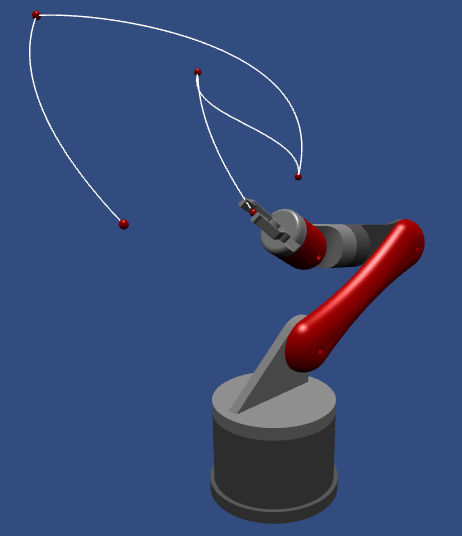
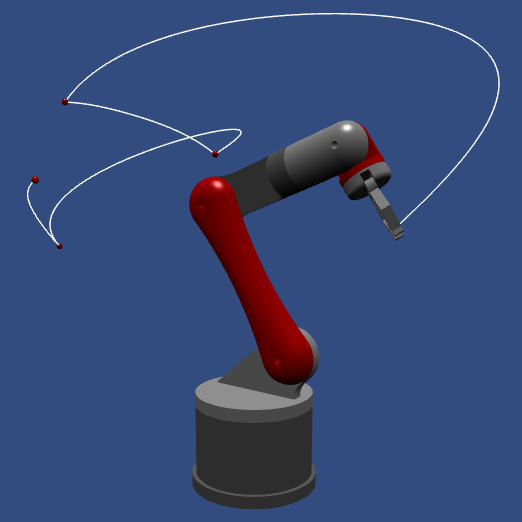
texto v4

diff --git a/LaTeX/Textual/2_Fundamentacao_teorica.tex b/LaTeX/Textual/2_Fundamentacao_teorica.tex
@@ -1,6 +1,6 @@
 \chapter{Fundamentação teórica}
 O desenvolvimento de um sistema para modelagem e visualização de um manipulador robótico exige uma base matemática que permita descrever formalmente sua estrutura geométrica e seu comportamento cinemático, estabelecendo de maneira consistente a relação entre o espaço das juntas e o espaço cartesiano. Este capítulo apresenta os fundamentos teóricos que sustentam o modelo adotado e dão suporte às decisões de implementação descritas posteriormente.
-\section{Manipuladores Robóticos}
+\section{Manipuladores Robóticos Industriais}
 % Definição e classificação (serial/paralelo), graus de liberdade, elos e juntas, espaço de trabalho,
 % aplicações típicas, métricas (repetibilidade/precisão) e exemplos.
 
@@ -8,10 +8,26 @@ Um manipulador robótico é um sistema mecânico articulado projetado para posic
 
 Segundo a norma ISO 8372:2012, um robô industrial é definido como uma máquina manipuladora automaticamente controlada, reprogramável e multifuncional, com três ou mais eixos programáveis, podendo ter base fixa ou móvel, destinada a aplicações de automação industrial \cite{romano2024}. Essa definição enfatiza três características fundamentais: reprogramabilidade, controle automático e multiplicidade de graus de liberdade.
 
+De forma complementar, um robô é composto pelo conjunto formado por um manipulador, responsável pela movimentação e interação com o ambiente; a unidade de controle, que processa os comandos e define o comportamento do sistema; e a unidade de potência, que fornece a energia necessária para a atuação dos seus elementos. Essa composição é ilustrada na figura \ref{fig:esquema_robo}.
+
+\begin{figure}[H]
+    \centering
+    \includegraphics[width=0.9 \textwidth]{Imagens/esquema_robo_texto.png}
+    \caption{Composição de Robô industrial}
+    \label{fig:esquema_robo_texto}
+\end{figure}
+
+
 Do ponto de vista estrutural, um manipulador é composto por uma cadeia cinemática aberta formada por elos rígidos interconectados por juntas. O primeiro elo é denominado base, geralmente fixo ao solo ou à estrutura de suporte, enquanto o último elo sustenta o efetuador final, responsável pela interação com o ambiente. 
 
 As juntas podem ser classificadas principalmente como junta de rotação (revolução) ou junta prismática  (translação). Cada junta introduz uma variável independente de posição. O número total dessas variáveis define os graus de liberdade do manipulador. Em uma cadeia cinemática aberta típica, o número de juntas coincide com o número de graus de liberdade do sistema \cite{romano2024}.
 
+\begin{figure}[H]
+    \centering
+    \includegraphics[width=0.9 \textwidth]{Imagens/esquema_robo.png}
+    \caption{Robô industrial: manipulador, unidade de potência e unidade de controle.\cite{romano2024}}
+    \label{fig:esquema_robo}
+\end{figure}
 
 Matematicamente, o estado geométrico de um manipulador pode ser descrito por dois espaços distintos:
 
@@ -35,7 +51,8 @@ No presente trabalho, considera-se um manipulador serial de seis graus de liberd
 
 \section{Representações por Transformações Homogêneas}
 
-Na modelagem cinemática de manipuladores robóticos, é necessário descrever de forma consistente a posição e a orientação de cada elo em relação a um sistema de coordenadas de referência. Essa descrição é realizada por meio das transformações homogêneas, que permitem representar simultaneamente rotação e translação em uma única estrutura matricial \cite{romano2024_parte2}.
+Na modelagem cinemática de manipuladores robóticos, é necessário descrever de forma consistente a posição e a orientação de cada elo em relação a um sistema de coordenadas de referência (SCR). Essa descrição é realizada por meio das transformações homogêneas, que permitem representar simultaneamente rotação e translação em uma única estrutura matricial \cite{romano2024_parte2}.
+\abbrev{SCR}{Sistema de coordenadas de referência}
 
 Considere dois sistemas de coordenadas, $\{A\}$ e $\{B\}$, rigidamente associados a diferentes elos do manipulador. A postura do sistema $\{B\}$ em relação ao sistema $\{A\}$ pode ser descrita por uma matriz de transformação homogênea da forma:
 
@@ -48,6 +65,13 @@ Considere dois sistemas de coordenadas, $\{A\}$ e $\{B\}$, rigidamente associado
 \end{equation}
 
 onde $^A\mathbf{R}_B$ é a matriz de rotação que define a orientação relativa entre os sistemas e $\mathbf{p}_{A}^{B}$ é o vetor posição da origem de $\{B\}$ expresso em $\{A\}$.
+
+\begin{figure}[H]
+    \centering
+    \includegraphics[width=0.7 \textwidth]{Imagens/sistema_coordenada.png}
+    \caption{SCR $\{B\}$ descrito no SCR $\{A\}$}
+    \label{fig:sistema_coordenada}
+\end{figure}
 
 A principal vantagem dessa representação é permitir a composição sucessiva de transformações por meio de multiplicação matricial. Assim, considerando três sistemas de coordenadas $\{A\}$, $\{B\}$ e $\{C\}$, tem-se:
 
@@ -74,6 +98,13 @@ Para cada elo $i$ de um manipulador serial, são definidos quatro parâmetros:
     \item $a_i$: comprimento do elo, medido ao longo do eixo $x_i$;
     \item $\alpha_i$: ângulo de torção entre os eixos $z_{i-1}$ e $z_i$, medido em torno de $x_i$.
 \end{itemize}
+
+\begin{figure}[H]
+    \centering
+    \includegraphics[width=0.8 \textwidth]{Imagens/esquema_dh.png}
+    \caption{Notação DH para cadeia cinemática.\cite{parametroDH}}
+    \label{fig:esquema_dh}
+\end{figure}
 
 Esses parâmetros permitem descrever completamente a transformação entre os sistemas de coordenadas $\{i-1\}$ e $\{i\}$ por meio da matriz homogênea:
 
@@ -177,16 +208,25 @@ Dessa forma, o planejamento de trajetória por interpolação polinomial permite
 \subsection {Robôs humanóides com Inteligência Artificial (VLA)}
 
 
-\textcolor{red}{A tendência recente de emprego de robôs humanóides na execução de tarefas industriais, resultou no desenvolvimento de uma nova geração de modelos de inteligência artificial que integram três capacidades fundamentais em um único sistema para dar "inteligência geral" a estes robôs. Estes modelos são denominados VLA (\textit{Vision-Language-Action}) ou Visão-Linguagem-Ação.}
+A tendência recente de emprego de robôs humanóides na execução de tarefas industriais, resultou no desenvolvimento de uma nova geração de modelos de inteligência artificial que integram três capacidades fundamentais em um único sistema para dar "inteligência geral" a estes robôs. Estes modelos são denominados VLA (\textit{Vision-Language-Action}) ou Visão-Linguagem-Ação.
 \abbrev{VLA}{Vision-Language-Action}
 
-\textcolor{red}{\textbf{Visão:} O robô utiliza câmeras, LiDAR (\textit{Light Detection and Ranging}) e algoritmos de visão computacional para compreender o ambiente ao seu redor, identificando objetos e obstáculos.}
-\abbrev{LiDAR}{Vision-Language-Action}
+\textbf{Visão:} O robô utiliza câmeras, LiDAR (\textit{Light Detection and Ranging}) e algoritmos de visão computacional para compreender o ambiente ao seu redor, identificando objetos e obstáculos.
+\abbrev{LiDAR}{Light Detection and Ranging}
 
-\textcolor{red}{\textbf{Linguagem:} O sistema processa instruções em linguagem natural (texto ou fala), permitindo que humanos deem comandos complexos como "pegue a caneca vermelha e coloque-a na mesa".}
+\textbf{Linguagem:} O sistema processa instruções em linguagem natural (texto ou fala), permitindo que humanos deem comandos complexos como "pegue a caneca vermelha e coloque-a na mesa".
 
-\textcolor{red}{\textbf{Ação:} O modelo traduz a compreensão visual e as instruções verbais diretamente em comandos motores, controlando os movimentos físicos do robô de forma coordenada.}
+\textbf{Ação:} O modelo traduz a compreensão visual e as instruções verbais diretamente em comandos motores, controlando os movimentos físicos do robô de forma coordenada.
 
-\textcolor{red}{Ao contrário da robótica tradicional, os modelos VLA permitem que os robôs aprendam a realizar tarefas e se adaptem a novas situações de forma mais flexível.}
+Ao contrário da robótica tradicional, os modelos VLA permitem que os robôs aprendam a realizar tarefas e se adaptem a novas situações de forma mais flexível.
 
-\textcolor{red}{Neste projeto de graduação serão abordados somente os modelos de planejamento de trajetórias baseados em códigos de programação, sem considerar os modelos VLA.}
+Neste projeto de graduação serão abordados somente os modelos de planejamento de trajetórias baseados em códigos de programação, sem considerar os modelos VLA.
+
+\begin{figure}[H]
+    \centering
+    \includegraphics[width=0.7 \textwidth]{Imagens/Boston Dymanics.png}
+    \caption{Robô humanoide da Boston Dynamics em operação \cite{bostondynamics_atlas2025} }
+    \label{fig:Boston Dymanics}
+\end{figure}
+
+%https://www.youtube.com/watch?v=gS4rOqNDTBk

diff --git a/LaTeX/Textual/4_Resultados.tex b/LaTeX/Textual/4_Resultados.tex
@@ -28,6 +28,13 @@ A Figura \ref{fig:teste_cd} apresenta um exemplo de configuração articular apl
 \label{fig:teste_cd}
 \end{figure}
 
+A entrada de dados consiste nas variáveis de junta $\theta_1=137,60^\circ$;
+$\theta_2=164,80^\circ$;
+$\theta_3=-218.60^\circ$;
+$\theta_4=219.20^\circ$;
+$\theta_5=-70.00^\circ$;
+$\theta_6=185,60^\circ$.
+
 A partir dessa configuração, o simulador calcula automaticamente a matriz de transformação homogênea do efetuador final, exibida na interface. O resultado obtido é consistente com a modelagem baseada na Convenção de Denavit–Hartenberg apresentada no Capítulo 2.
 
 \section{Testes de Cinemática Inversa}
@@ -48,9 +55,9 @@ A Figura \ref{fig:teste_ci} apresenta um exemplo de pose definida pelo usuário 
 No exemplo apresentado, o usuário definiu a posição do efetuador final como:
 
 \begin{align}
-x &= 280.00 \\
-y &= -460.00 \\
-z &= 493.33
+x &= 280.00\,\mathrm{mm} \\
+y &= -460.00\,\mathrm{mm} \\
+z &= 493.33\,\mathrm{mm}
 \end{align}
 
 Após a execução da cinemática inversa, o simulador calcula as variáveis articulares correspondentes e atualiza a matriz de transformação homogênea global do efetuador final, exibida na interface na forma:
@@ -86,7 +93,7 @@ Em seguida, pode-se validar a orientação do efetuador final a partir dos ângu
 \text{yaw} &= 33.60^\circ
 \end{align}
 
-No simulador, esses ângulos são utilizados para compor a matriz de rotação do efetuador segundo a convenção ZYX, dada por:
+No simulador, esses ângulos são utilizados para compor a matriz de rotação do efetuador segundo a convenção ZYX no sistema de referência do elo O (inercial), dada por:
 
 \begin{equation}
 R = R_z(\text{yaw})\,R_y(\text{pitch})\,R_x(\text{roll})
@@ -132,7 +139,27 @@ Esse resultado coincide com a submatriz de rotação correspondente às três pr
 
 O simulador permite a execução de trajetórias definidas a partir de uma sequência de configurações articulares intermediárias. Para avaliar essa funcionalidade, foram programados diferentes movimentos utilizando a interpolação polinomial cúbica descrita anteriormente.
 
-A Figura \ref{fig:trajetoria_execucao} apresenta um exemplo de execução de trajetória no simulador.
+A Figura \ref{fig:trajetoria_execucao} apresenta um exemplo de execução de trajetória no simulador. A tabela \ref{tab:trajetoria} mostra os valores das variáveis para cada uma das configurações usadas no exemplo, assim como o tempo definido para cada trecho do percurso.
+
+\begin{table}[H]
+\centering
+\caption{Posicionamentos configurados ao longo da trajetória}
+\label{tab:trajetoria}
+\begin{tabular}{c c c c c c c c}
+\hline
+\textbf{Configuração} & $\boldsymbol{\theta_1}(^\circ)$ & $\boldsymbol{\theta_2}(^\circ)$ & $\boldsymbol{\theta_3}(^\circ)$ & $\boldsymbol{\theta_4}(^\circ)$ & $\boldsymbol{\theta_5}(^\circ)$ & $\boldsymbol{\theta_6}(^\circ)$ &  $\boldsymbol{\Delta t}$ (s)  \\ 
+\hline
+1 & 180.0 & 90.0 & 0.0 & 180.0 & 0.0 & 0.0 & - \\
+2 & 130.0 & 105.0 & 10.0 & 122.4 & 40.8 & 57.6 & 2 \\
+3 & 264.0 & 33.6 & 49.0 & 201.6 & 90.0 & 199.2 & 3 \\
+4 & 307.2 & 12.0 & -7.2 & 276 & 52.8 & 235.2 & 1 \\
+5 & 124.8 & 122.4 & -191.8 & 360 & -75.6 & 151.2 & 3 \\
+
+
+\hline
+\end{tabular}
+\end{table}
+
 
 \begin{figure}[H]
 \centering

diff --git a/LaTeX/Textual/3_Metodologia.tex b/LaTeX/Textual/3_Metodologia.tex
@@ -37,18 +37,28 @@ Essa divisão favorece a organização do código, facilita a manutenção e per
 O funcionamento do sistema segue o seguinte fluxo geral:
 
 \begin{enumerate}
-    \item O usuário interage com a interface por meio de controles deslizantes ou comandos de execução de trajetória;
-    \item As variáveis articulares são atualizadas conforme a entrada fornecida;
+    \item O usuário interage com a interface por meio de controles deslizantes ou comandos de execução de trajetória. Essa interação pode ser por meio da cinemática direta ou inversa;
+    \item Caso o comando do usuário seja por meio da cinemática inversa, os valores das juntas são calculados;
+    \item As variáveis articulares são atualizadas;
     \item A nova configuração do manipulador é aplicada à estrutura hierárquica da cena 3D;
     \item O posicionamento do efetuador final é recalculado e, quando aplicável, utilizado na atualização dos gráficos;
     \item O motor gráfico renderiza a cena atualizada em tempo real.
 \end{enumerate}
 
+\begin{figure}[H]
+    \centering
+    \includegraphics[width=0.85\textwidth]{Imagens/flowchart.png}
+    \caption{Fluxograma do funcionamento do programa }
+    \label{fig:flowchart}
+\end{figure}
+
+%https://miro.com/app/board/uXjVHfj6woE=/
+
 Esse processo ocorre dentro do laço de renderização do motor gráfico, garantindo atualização contínua da cena e dos elementos gráficos.
 
 \subsection{Sistema de Coordenadas e Estrutura Hierárquica}
 
-A cena tridimensional foi configurada utilizando um sistema de coordenadas de mão direita, com o eixo $z$ orientado verticalmente, em concordância com a modelagem cinemática adotada.
+A cena tridimensional foi configurada utilizando um sistema de coordenadas de x, y e z, com o eixo $z$ orientado verticalmente, em concordância com a modelagem cinemática adotada.
 
 A estrutura do manipulador foi implementada por meio de uma hierarquia de nós (\textit{TransformNodes}), em que cada junta é modelada como um elemento pai do elo subsequente. Dessa forma, as transformações aplicadas a uma junta propagam-se automaticamente para os elos descendentes, reproduzindo computacionalmente a cadeia cinemática aberta descrita na fundamentação teórica.
 
@@ -116,7 +126,7 @@ Foram modelados os principais elementos estruturais do manipulador, incluindo ba
 
 \begin{figure}[H]
     \centering
-    \includegraphics[width=0.85\textwidth]{Imagens/OnShape_Assembly.png}
+    \includegraphics[width=1\textwidth]{Imagens/OnShape_Assembly.png}
     \caption{Modelo CAD do manipulador serial 6R desenvolvido no Onshape.}
     \label{fig:OnShape_Assembly}
 \end{figure}

diff --git a/LaTeX/Textual/5_Conclusao.tex b/LaTeX/Textual/5_Conclusao.tex
@@ -24,15 +24,14 @@ Dessa forma, a ferramenta pode ser utilizada como recurso complementar na discip
 
 \section{Simulação de gêmeos digitais}
 
-\textcolor{red}{O conceito de gêmeo digital refere-se à criação de um modelo virtual que representa um sistema físico real. No contexto da robótica, isso envolve a construção de uma simulação capaz de reproduzir o comportamento de um manipulador, incluindo sua estrutura mecânica, movimentos e condições operacionais.}
+O conceito de gêmeo digital refere-se à criação de um modelo virtual que representa um sistema físico real. No contexto da robótica, isso envolve a construção de uma simulação capaz de reproduzir o comportamento de um manipulador, incluindo sua estrutura mecânica, movimentos e condições operacionais.
 
-\textcolor{red}{O uso de gêmeos digitais permite a realização de testes em ambiente virtual antes da implementação no sistema físico, contribuindo para a redução de riscos e a otimização de trajetórias e processos. Além disso, possibilita a identificação de gargalos operacionais, o treinamento em ambiente simulado e, em aplicações mais avançadas, a antecipação de necessidades de manutenção.}
+O uso de gêmeos digitais permite a realização de testes em ambiente virtual antes da implementação no sistema físico, contribuindo para a redução de riscos e a otimização de trajetórias e processos. Além disso, possibilita a identificação de gargalos operacionais, o treinamento em ambiente simulado e, em aplicações mais avançadas, a antecipação de necessidades de manutenção.
+Nesse contexto, o simulador desenvolvido neste trabalho pode ser interpretado como um passo inicial para a implementação de um gêmeo digital, uma vez que permite a análise e validação do comportamento do robô em ambiente virtual.
 
-\textcolor{red}{Nesse contexto, o simulador desenvolvido neste trabalho pode ser interpretado como um passo inicial para a implementação de um gêmeo digital, uma vez que permite a análise e validação do comportamento do robô em ambiente virtual.}
+Como evolução futura, o modelo pode ser integrado a um sistema físico por meio da utilização de dados em tempo real, estabelecendo uma correspondência entre o modelo virtual e o robô real. Essa integração permitiria não apenas a simulação, mas também o monitoramento e a otimização contínua da operação, aproximando-se do conceito completo de gêmeo digital.
 
-\textcolor{red}{Como evolução futura, o modelo pode ser integrado a um sistema físico por meio da utilização de dados em tempo real, estabelecendo uma correspondência entre o modelo virtual e o robô real. Essa integração permitiria não apenas a simulação, mas também o monitoramento e a otimização contínua da operação, aproximando-se do conceito completo de gêmeo digital.}
-
-\textcolor{red}{Dessa forma, a abordagem proposta apresenta potencial para expansão em direção a aplicações mais avançadas, nas quais há integração entre simulação, dados e sistema físico.}
+Dessa forma, a abordagem proposta apresenta potencial para expansão em direção a aplicações mais avançadas, nas quais há integração entre simulação, dados e sistema físico.
 
 \begin{figure}[H]
 \centering
@@ -61,6 +60,6 @@ Outra possibilidade consiste na definição explícita do espaço de trabalho do
 
 Também pode ser considerada a inclusão de modelos dinâmicos do manipulador, permitindo analisar esforços, torques articulares e estratégias de controle de movimento.
 
-\textcolor{red}{Adicionalmente, o simulador pode evoluir para a implementação de um gêmeo digital do manipulador, integrando o modelo virtual a dados provenientes de um sistema físico real. Essa abordagem permitiria utilizar a ferramenta não apenas para fins didáticos, mas também para simulação de cenários, testes de estratégias de controle e apoio à tomada de decisão em ambientes mais próximos de aplicações reais.}
+Adicionalmente, o simulador pode evoluir para a implementação de um gêmeo digital do manipulador, integrando o modelo virtual a dados provenientes de um sistema físico real. Essa abordagem permitiria utilizar a ferramenta não apenas para fins didáticos, mas também para simulação de cenários, testes de estratégias de controle e apoio à tomada de decisão em ambientes mais próximos de aplicações reais.
 
 Por fim, a ferramenta desenvolvida pode ser expandida para suportar diferentes arquiteturas de manipuladores, bem como novas funcionalidades de interação e visualização, ampliando seu potencial de utilização como recurso educacional em disciplinas relacionadas à robótica e automação.

diff --git a/LaTeX/thesis.tex b/LaTeX/thesis.tex
@@ -14,6 +14,9 @@
 \usepackage{animate}
 \usepackage{hyperref}
 
+\usepackage{tikz}
+\usetikzlibrary{arrows.meta, positioning}
+
 \definecolor{dkgreen}{rgb}{0,0.6,0}
 \definecolor{gray}{rgb}{0.5,0.5,0.5}
 \definecolor{mauve}{rgb}{0.58,0,0.82}